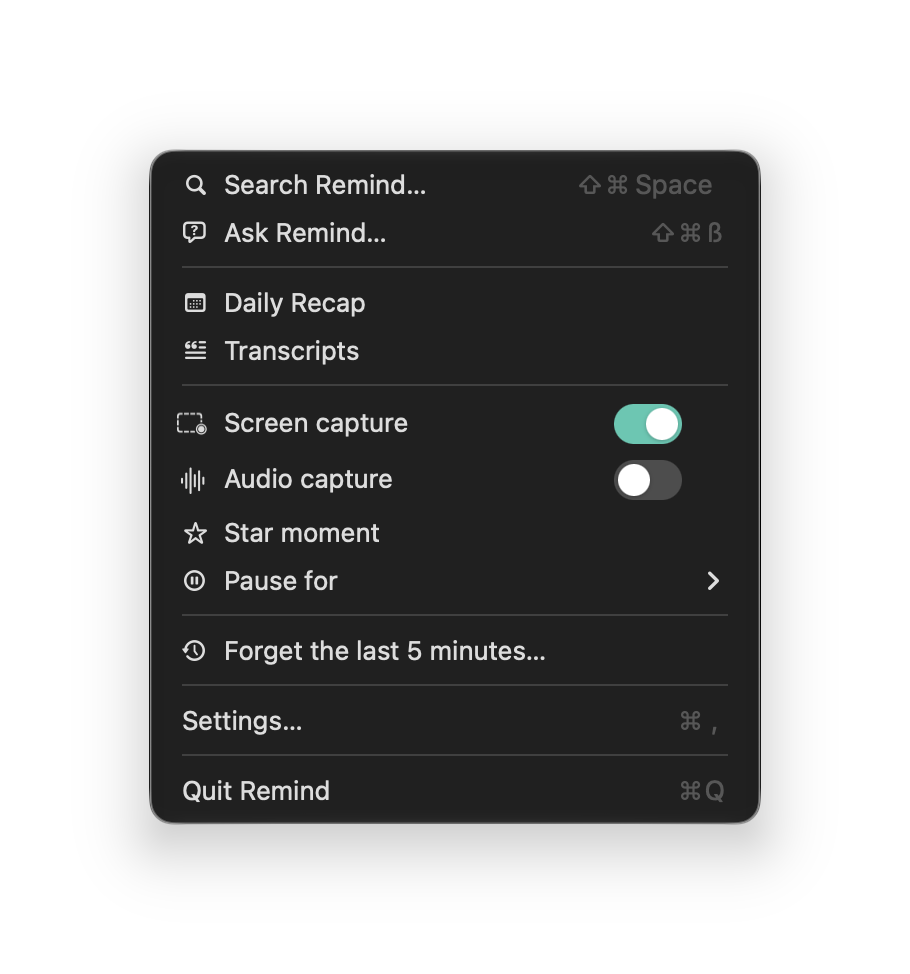
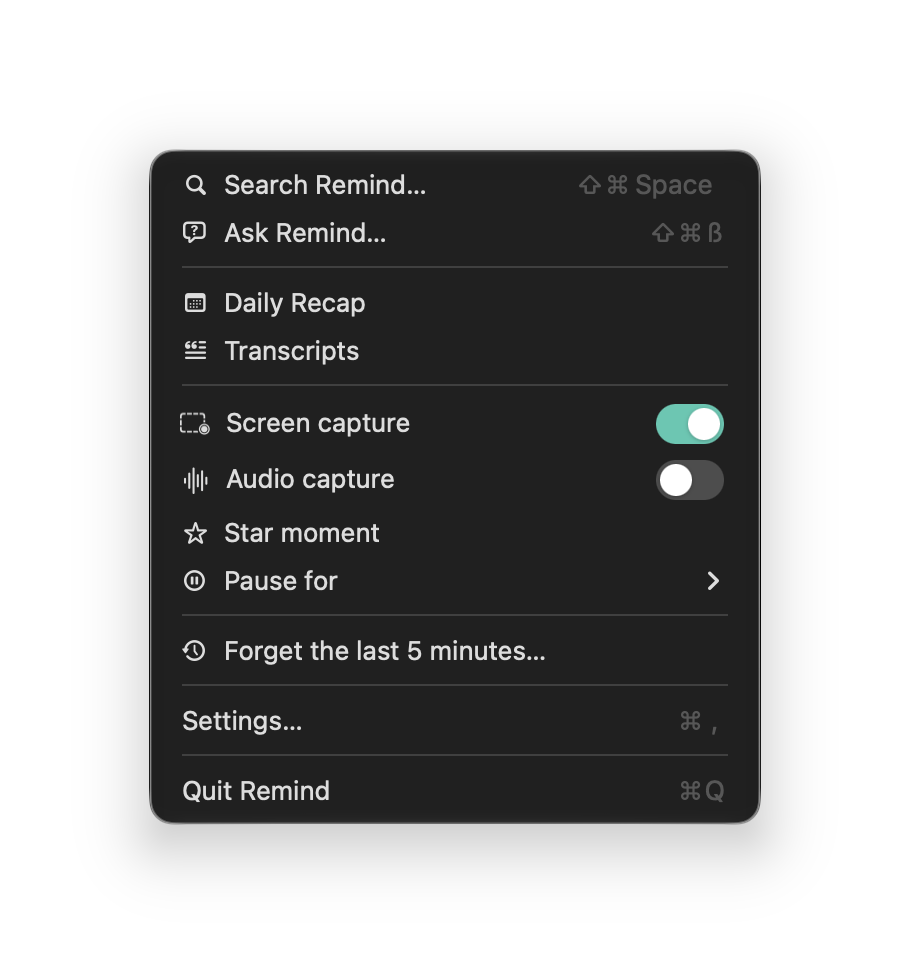
Update the README and docs for the overflow menu and the latest real tests

Changed region(s): [[0.2154, 0.4312, 0.4615, 0.5236], [0.6769, 0.4004, 0.8, 0.5236], [0.1846, 0.462, 0.2154, 0.5236]]

diff --git a/README.md b/README.md
@@ -170,6 +170,10 @@ The **⋯** menu holds everything else:
 | Forget the last 5 minutes… | Permanently deletes the 5 minutes before now, wherever the playhead is. It asks first. |
 | Settings… | Opens Settings. |
 
+<p align="center">
+  <img src="docs/images/overflow-menu.png" width="320" alt="The timeline's more menu: Star moment, Save image, Copy image, Copy text, Copy link to this moment, Export 5 minutes as video, switches for screen and audio capture, Exclude this app from recording, Forget the last 5 minutes, and Settings">
+</p>
+
 ### Working with a stretch of time
 
 The strip is also where you manage your history. Click a run to go to that moment and select the whole run. Drag to select any stretch, and drag either end of a selection to trim it. The ends snap to where an app starts or stops, because a stretch that ends where an app ends takes nothing from the next one. Esc clears the selection.
@@ -618,8 +622,8 @@ A clean first run spent 31 s compiling Vision's models, and a slower Mac will ta
 
 | How long each window stayed open | Allowed frames showing it |
 |---|---|
-| 250 to 700 ms | 0 of 13,561 |
-| Under 120 ms | 3 of 49 |
+| 250 to 700 ms | 0 of 22,897 |
+| Under 120 ms | 3 of 49, then 2 of 57 |
 
 The first row leaves out one English run, where the control never saw the marker. The run before the last fix leaked 1 frame in 4,254. About half of all frames are dropped in this test, because a private window is opening or closing almost constantly, far more than in real use.
 
@@ -706,8 +710,8 @@ open -n $APP --args --spike capture --out /path/to/report.txt
 open -n $APP --args --sandbox /path/to/folder
 ```
 
-- **Scenarios:** `timeline`, `timeline-zoom`, `display-picker`, `coach-marks`, `jump-to-date`, `forget-confirm`, `slice-hover`, `slice-selected`, `slice-range`, `slice-confirm`, `search-compact`, `search-expanded`, `search-starred`, `search-apps`, `ask`, `recap`, `transcripts`, `transcript`, `meeting-prompt`, `notice-card`, `recovery`, `status-menu`, `onboarding-welcome`, `onboarding-how`, `onboarding-permissions`, `onboarding-ready`, `settings-general`, `-screen`, `-audio`, `-meetings`, `-storage`, `-shortcuts`, `contrast-white`, `-black`, `-noisy`, `-saturated`, and `bench`. `overlay-input` and `overlay-swipe` take over the screen and keyboard, so run those through `make interaction-test`.
-- **Spikes:** `capture` and `endtoend` need no permission, and work only on windows the harness draws. `privacy`, `energy`, `browsers`, and `sharing` need Screen Recording. `sharing` puts up a small panel with the overlay's settings, after an ordinary panel as a control, and starts a second copy of the app to capture the whole display as a screen share would and look for it, including with the system's `screencapture` tool. It counts only marker-coloured pixels where the panel sits. It examines frames in memory, except that the tool's picture goes in a temporary file that's deleted straight away. `login-item` needs no permission and captures nothing. It reports the login item's status and which permissions the app has, and `--action on` or `--action off` registers or unregisters the login item for real.
+- **Scenarios:** `timeline`, `timeline-zoom`, `display-picker`, `coach-marks`, `jump-to-date`, `forget-confirm`, `slice-hover`, `slice-selected`, `slice-range`, `slice-confirm`, `search-compact`, `search-expanded`, `search-starred`, `search-apps`, `ask`, `recap`, `transcripts`, `transcript`, `meeting-prompt`, `notice-card`, `recovery`, `status-menu`, `overflow-menu`, `onboarding-welcome`, `onboarding-how`, `onboarding-permissions`, `onboarding-ready`, `settings-general`, `-screen`, `-audio`, `-meetings`, `-storage`, `-shortcuts`, `contrast-white`, `-black`, `-noisy`, `-saturated`, and `bench`. `overlay-input` and `overlay-swipe` take over the screen and keyboard, so run those through `make interaction-test`.
+- **Spikes:** `capture` and `endtoend` need no permission, and work only on windows the harness draws. `privacy`, `energy`, `browsers`, and `sharing` need Screen Recording. `sharing` puts up a small panel with the overlay's settings, after an ordinary panel as a control, and starts a second copy of the app to capture the whole display as a screen share would and look for it, including with the system's `screencapture` tool. It counts only marker-coloured pixels where the panel sits. It examines frames in memory, except that the tool's picture goes in a temporary file that's deleted straight away. `login-item` needs no permission and captures nothing. It reports the login item's status and which permissions the app has, and `--action on` or `--action off` registers or unregisters the login item for real, which starts the real app rather than a sandbox. `sharing-hold` also needs no permission. It holds up a marker panel on every display, ordinary and then with the overlay's setting, for 8 seconds each, so that something outside the app can try capturing them.
 
 `settings-screen` lists the apps installed on your Mac, and `make scenarios` draws it too, so check it before sharing the picture.
 
@@ -717,13 +721,13 @@ A `--sandbox` run can also be driven from outside, without taking your keyboard 
 - **Search:** `search <words>`, `choose`, `filterStarred`, `hits`
 - **The key:** `recoveryKey`, `restore <recovery key>`, `startOver`
 - **Everything else:** `listen`, `pause`, `recap`, `ask`, `transcripts`, `settings`, `quit`
-- **Checking:** `state`, `apps`, `lookup <time>`, `shootPanel <path>`, `shootWindow <path>`, and `askNow <question>`, which puts the question to the real model and answers with how many sources it used and what it wrote. `state` also says which permissions the app has, whether the event tap is running, what the Control Center switch would read, and how many microphone buffers have arrived and how loud they were
+- **Checking:** `state`, `apps`, `lookup <time>`, `shootPanel <path>`, `shootWindow <path>`, and `askNow <question>`, which puts the question to the real model and answers with how many sources it used and what it wrote. `state` also says which permissions the app has, whether the event tap is running, what the Control Center switch would read, what has arrived from the microphone, and what has reached speech recognition
 
 ### Working rules
 
 These protect people's data, and several are enforced by a test or a check:
 
-- **Keep real data out of tests.** Test vaults go in a scratch directory, stay under 5 GB, and are deleted afterwards. Live capture tests look only at windows the harness draws. Recorded data and keys never go in the repository.
+- **Keep real data out of tests.** Test vaults go in a scratch directory, stay under 5 GB, and are deleted afterwards. Live capture tests look only at windows the harness draws. Recorded data and keys never go in the repository. Anything that starts the app without `--sandbox` has to be treated as real, and a running copy may not be yours.
 - **Never create a new key for an existing vault.** It would orphan all recorded history, so a missing key is an error to show.
 - **Never change how keys are derived.** Known-answer tests guard this, because existing vaults depend on those values.
 - **Never edit a released migration.** Add a new one.
@@ -775,7 +779,7 @@ Before any public release, work through [docs/release-checklist.md](docs/release
 
 **Check these before relying on Remind:**
 
-- **Screen sharing hasn't been tried on a real call.** The overlay asks macOS to keep it out of screen capture (`sharingType = .none`). A separate process capturing the display with ScreenCaptureKit finds nothing of it, by screenshot, by stream, or by asking for that window alone, and an ordinary panel shows up every time. That's good evidence, but no call app has been tried. Until one has, it's safest not to open the timeline while sharing your screen, because that could expose your history. This blocks a public release. Chrome's real `getDisplayMedia`, which web call apps use, doesn't see it either: 0 in 28 frames, while an ordinary panel shows up in every one.
+- **Screen sharing hasn't been tried on a real call.** The overlay asks macOS to keep it out of screen capture (`sharingType = .none`). A separate process capturing the display with ScreenCaptureKit finds nothing of it, by screenshot, by stream, or by asking for that window alone, and neither does the system's `screencapture` tool. Chrome's real `getDisplayMedia`, which web call apps use, doesn't see it either: 0 in 28 frames. An ordinary panel shows up every time. That's good evidence, but no call app has been tried. Until one has, it's safest not to open the timeline while sharing your screen, because that could expose your history. This blocks a public release.
 - **A real first run has only happened on one Mac, with other apps excluded.** It recorded two real displays into a scratch vault, and [docs/spikes.md](docs/spikes.md) has what it covered. Normal daily use, and energy use, haven't been measured.
 - **Very brief private windows can reach a recording.** Spike 2 found no marker in 22,897 allowed frames for windows open 250 to 700 ms. Windows open under 120 ms can open and close between two looks at the window list, and reached the encoder in 2 to 3 of about 50 allowed frames. Remind only promises to catch windows open for at least 0.25 seconds.
 - **Password fields aren't special-cased.** If it's visible in an ordinary window, it's recorded.

diff --git a/docs/release-checklist.md b/docs/release-checklist.md
@@ -28,20 +28,24 @@ Automated tests can't cover these. Each needs a real Mac and real prompts.
 
 - [ ] First run on a clean account: permission prompts, Quit & Reopen, restoring the same step.
       A `--sandbox` run on one Mac covered the permission rows and resuming at the same step. See
-      docs/spikes.md. A clean account, Quit & Reopen, and the Accessibility prompt are still to do.
+      docs/spikes.md. The prompts on a clean account, and Quit & Reopen, are still to do.
 - [ ] macOS asking to confirm screen recording again: recording pauses, the gap shows, and it resumes in one click.
 - [ ] **Screen sharing: does anyone on a call see the overlay?** If `sharingType = .none` doesn't
       hold, opening the timeline during a share would expose your history. Spike 7. **Don't ship until this is known.**
       `--spike sharing` now captures the display from a separate process and finds nothing of the overlay,
       by screenshot, stream, or asking for that window alone, while an ordinary panel shows up every time.
+      The `screencapture` tool and Chrome's real `getDisplayMedia` don't see it either.
       What's left is a real share, in the call apps people use.
 - [ ] The swipe, on a trackpad and on a mouse: ⌘⇧ and scroll up. It should look like your screen going
       back in time: no flash, no jump, the first movement counted, and the app underneath perfectly
-      still. `make interaction-test` covers the logic, but only your eyes can judge the illusion.
+      still. `make interaction-test` covers the logic, and with synthetic events through the real event
+      tap, none reached the app underneath. Only your eyes can judge the illusion.
 - [ ] Scroll speed at the start of the swipe. `TimelineZoom.defaultPointsPerSecond` sets how far a
       movement goes, and it hasn't been tried on real fingers.
 - [ ] Login item: turn it on, restart, and confirm the app comes back. Force quit it and confirm launchd
       relaunches it. Crash it three times and confirm it comes back paused and says why.
+      Registering it, and launchd bringing it back after a SIGKILL, have worked for real. Coming back after a
+      restart hasn't been tried. See docs/spikes.md.
 - [ ] Pointer following: move between displays and confirm recording follows after about 2 seconds.
       The real first run saw recording follow the pointer, but didn't record how long it took.
 - [ ] Dragging a frame out of the timeline into Finder and another app.
@@ -49,9 +53,11 @@ Automated tests can't cover these. Each needs a real Mac and real prompts.
 - [ ] Overlay over full-screen apps, in Mission Control, with Stage Manager, on a notched display, and on a second display.
 - [ ] Private windows in real browsers, in each language you claim to support.
 - [ ] Haptics while scrubbing.
-- [ ] Transcribing a real meeting with a real microphone.
+- [ ] Transcribing a real meeting with a real microphone. Real audio reaches speech recognition, and speech in
+      the microphone's format becomes words in a test, but no real voice has been tried.
 - [ ] The Control Center switch: it appears, shows whether Remind is recording, pauses and resumes, and says
-      Not recording after Remind is force quit.
+      Not recording after Remind is force quit. A sandboxed process has read the state and paused and resumed
+      the app, but the switch hasn't been seen in Control Center itself.
 
 ## Measurements still needed
 

diff --git a/docs/spikes.md b/docs/spikes.md
@@ -246,7 +246,7 @@ constantly, far more than in real use.
 
 | Question | Result |
 |---|---|
-| Does `sharingType = .none` hide the panel from capture? | From another process, yes, and from the system's `screencapture` tool too. So does Chrome's real `getDisplayMedia`, which web call apps use: over a whole display at 3456×2234, an ordinary panel showed about 38,000 sampled pixels per frame, and the overlay's setting showed 0 in all 28 frames. In `--spike sharing`, a separate copy of the app captures the display. With the overlay's setting it finds nothing, by screenshot, stream, or asking for that window alone, and the same panel set to share normally shows up every time. The check now also tries the system's `screencapture` tool, and that result isn't written down yet. **A real call is still to try** |
+| Does `sharingType = .none` hide the panel from capture? | From another process, yes, and from the system's `screencapture` tool too. Chrome's real `getDisplayMedia`, which web call apps use, doesn't see it either: over a whole display at 3456×2234, an ordinary panel showed about 38,000 sampled pixels per frame, and the overlay's setting showed 0 in all 28 frames. In `--spike sharing`, a separate copy of the app captures the display. With the overlay's setting it finds nothing, by screenshot, stream, or asking for that window alone, and the same panel set to share normally shows up every time. **A real call is still to try** |
 | Does scrolling reach the timeline through the SwiftUI layer and the strip? | Yes, with real events through the real panel |
 | Does typing start a search, and does the field take over? | Yes |
 | Drag across text, then ⌘C | Copies it |
